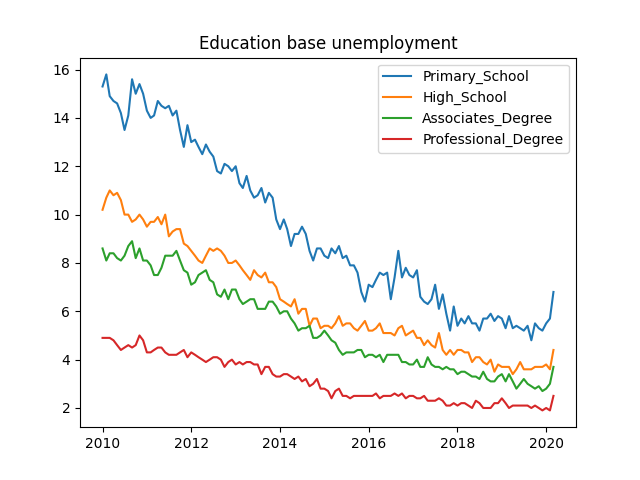
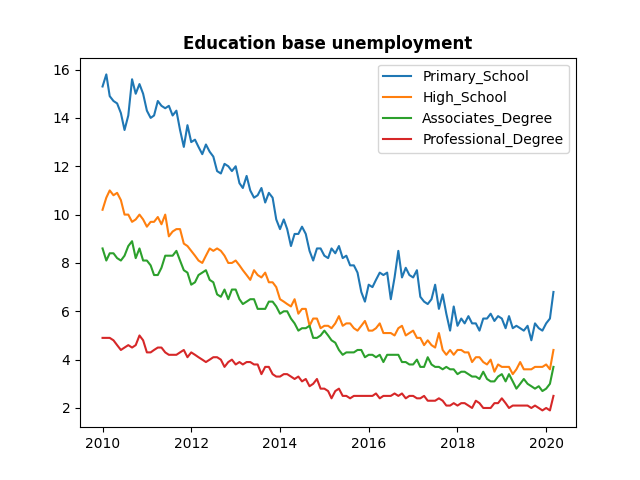
Added pie chart

Changed region(s): [[0.2812, 0.0625, 0.75, 0.125]]

diff --git a/main.py b/main.py
@@ -23,7 +23,7 @@ def plot_multiline(df, columns, title):
         # format the axes as date
         plt.plot('Date', column, data=df)
     plt.legend()
-    plt.title(title)
+    plt.title(title, fontweight="bold")
     plt.savefig(title + ".png")
     plt.show()
 
@@ -44,8 +44,23 @@ def plot_bar(df, title):
     dft = df.T
     plt.figure()
     dft.plot(kind='bar', rot=0)
-    plt.title(title)
-    plt.savefig(title + "")
+    plt.title(title, fontweight="bold")
+    plt.savefig(title + ".png")
+    plt.show()
+
+
+def plot_pie_plot(df, title):
+    """
+    This function plots a pei plot of given dataframe and saves its image with given title
+    :param df: DataFrame
+        Data frame that need to be plotted in pie chart
+    :param title: str
+        Title of the plot, name of image
+    """
+    plt.figure()
+    plt.pie(df.mean(), labels=df.columns, autopct='%1.1f%%')
+    plt.title(title, fontweight="bold")
+    plt.savefig(title + ".png")
     plt.show()
 
 
@@ -69,6 +84,10 @@ def read_data(name):
     plot_multiline(df, ["White", "Black", "Asian", "Hispanic"],
                    "Ethnicity base unemployment")
     plot_bar(df, "Men vs Women")
+    # Drop the columns that need not be in pie chart
+    # e.g Year has no meaning in un-empowerment pie chart
+    df = df.drop(['Year', 'Month', 'Date'], axis=1, errors='ignore')
+    plot_pie_plot(df, "Average un-employment 2010-2020")
 
 
 # Press the green button in the gutter to run the script.
